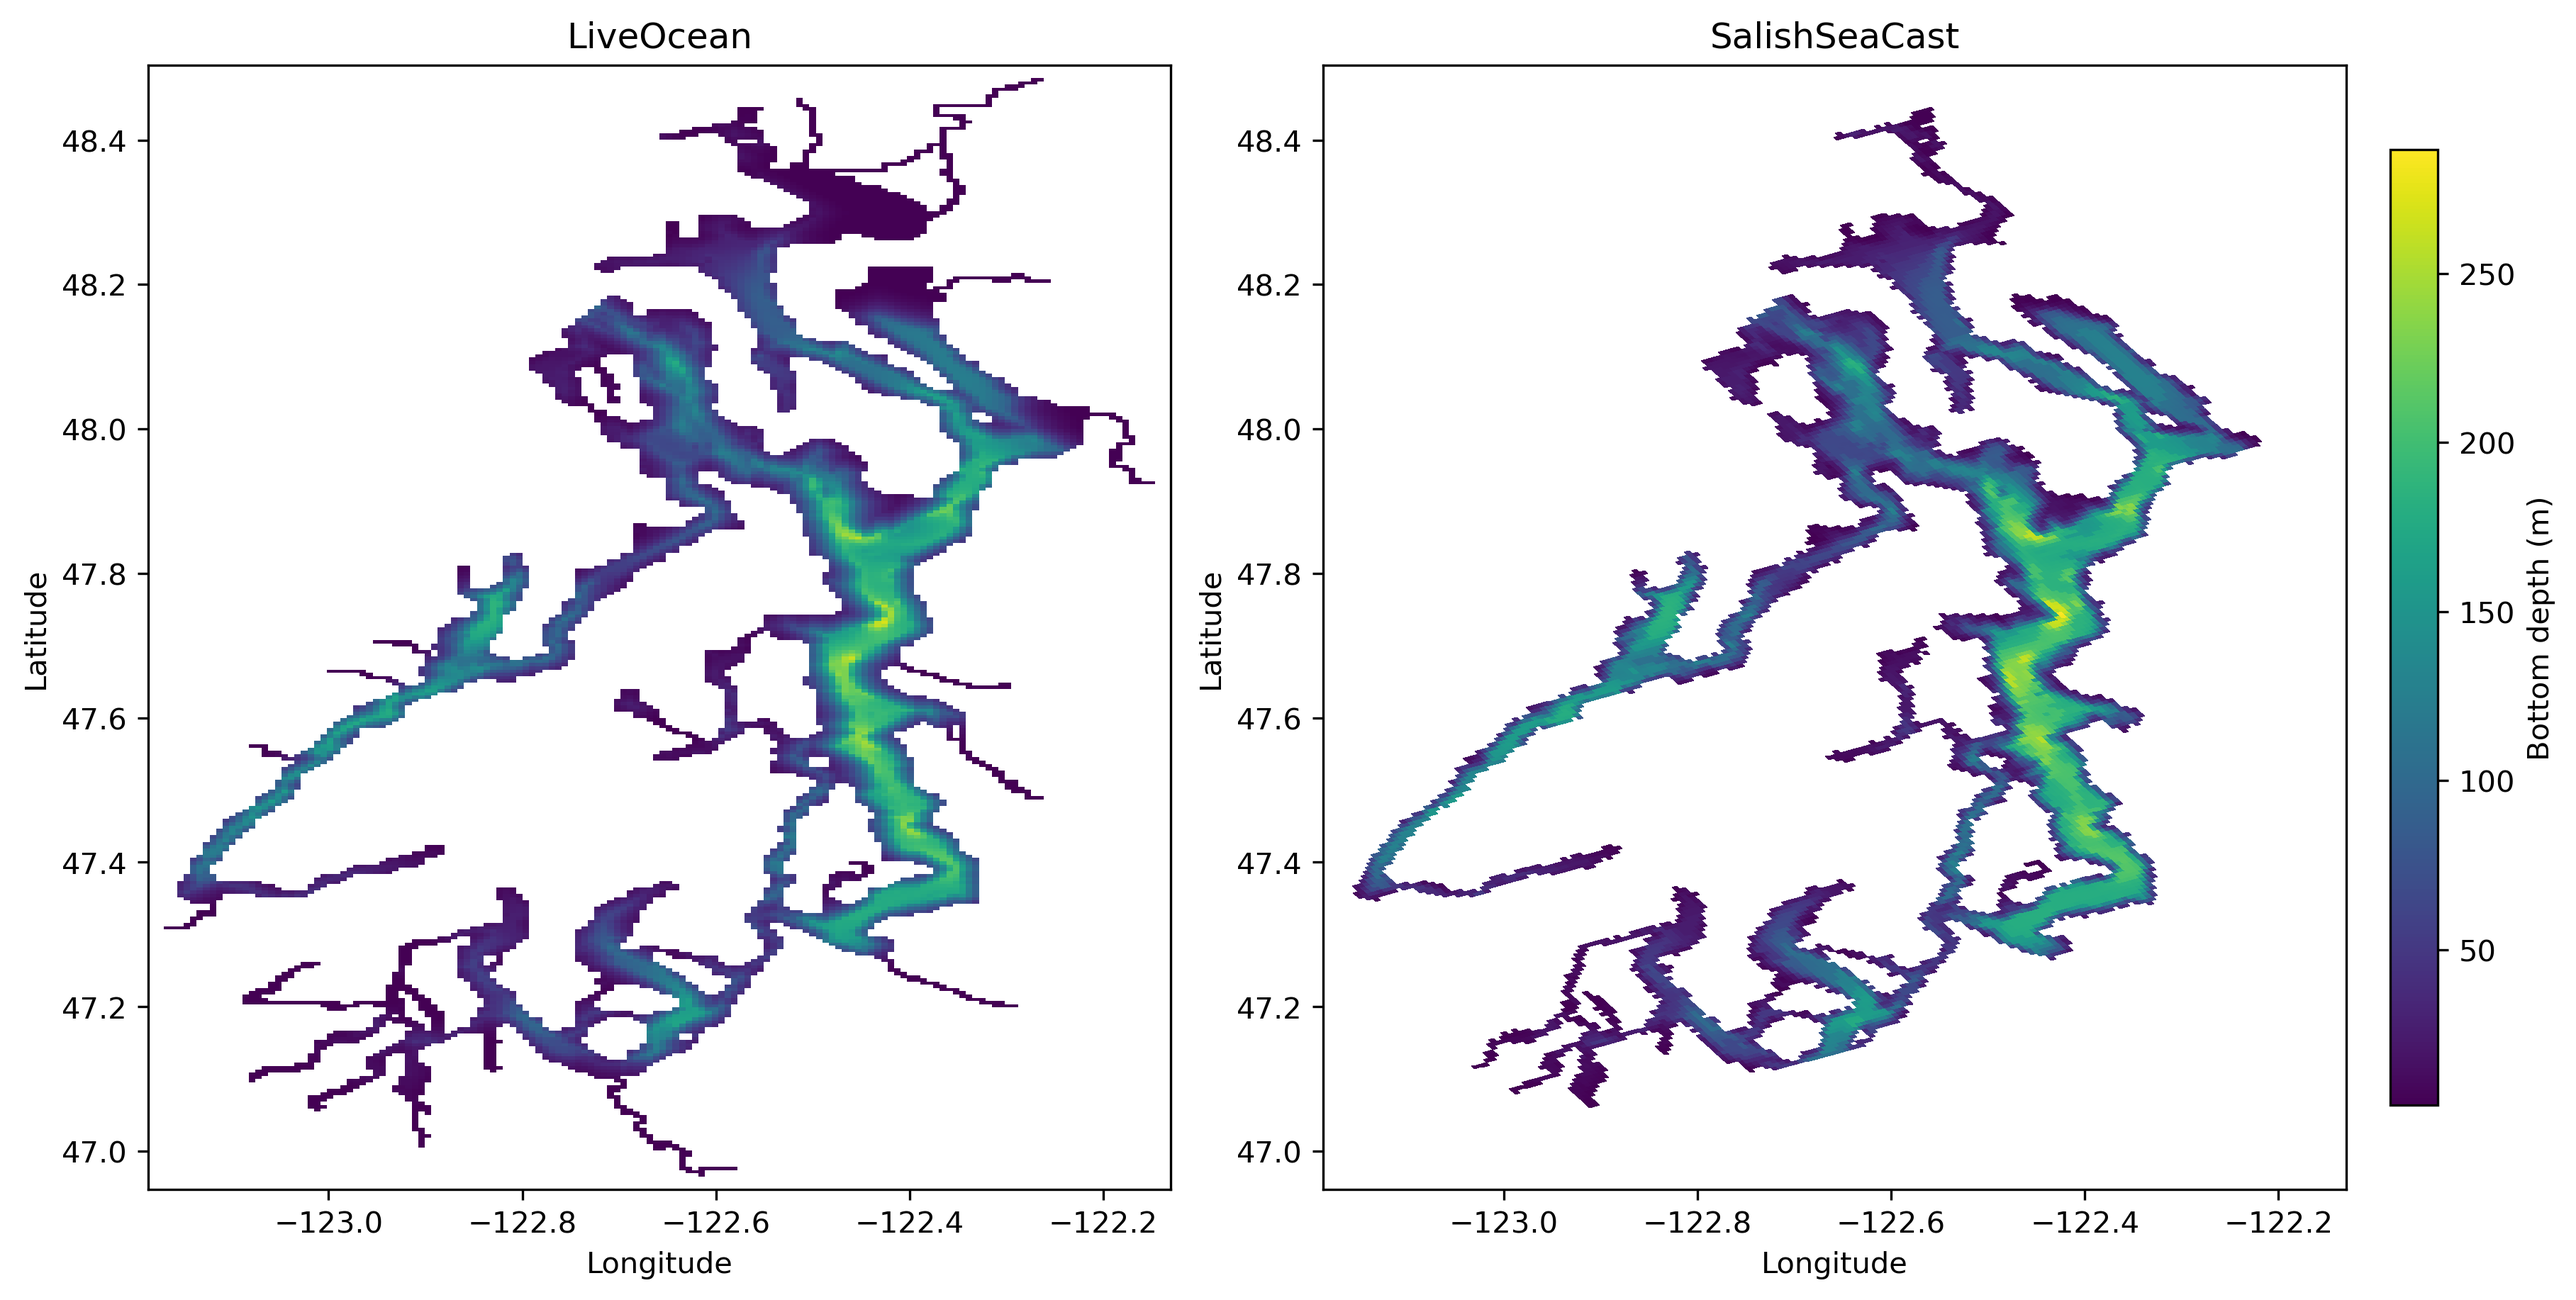
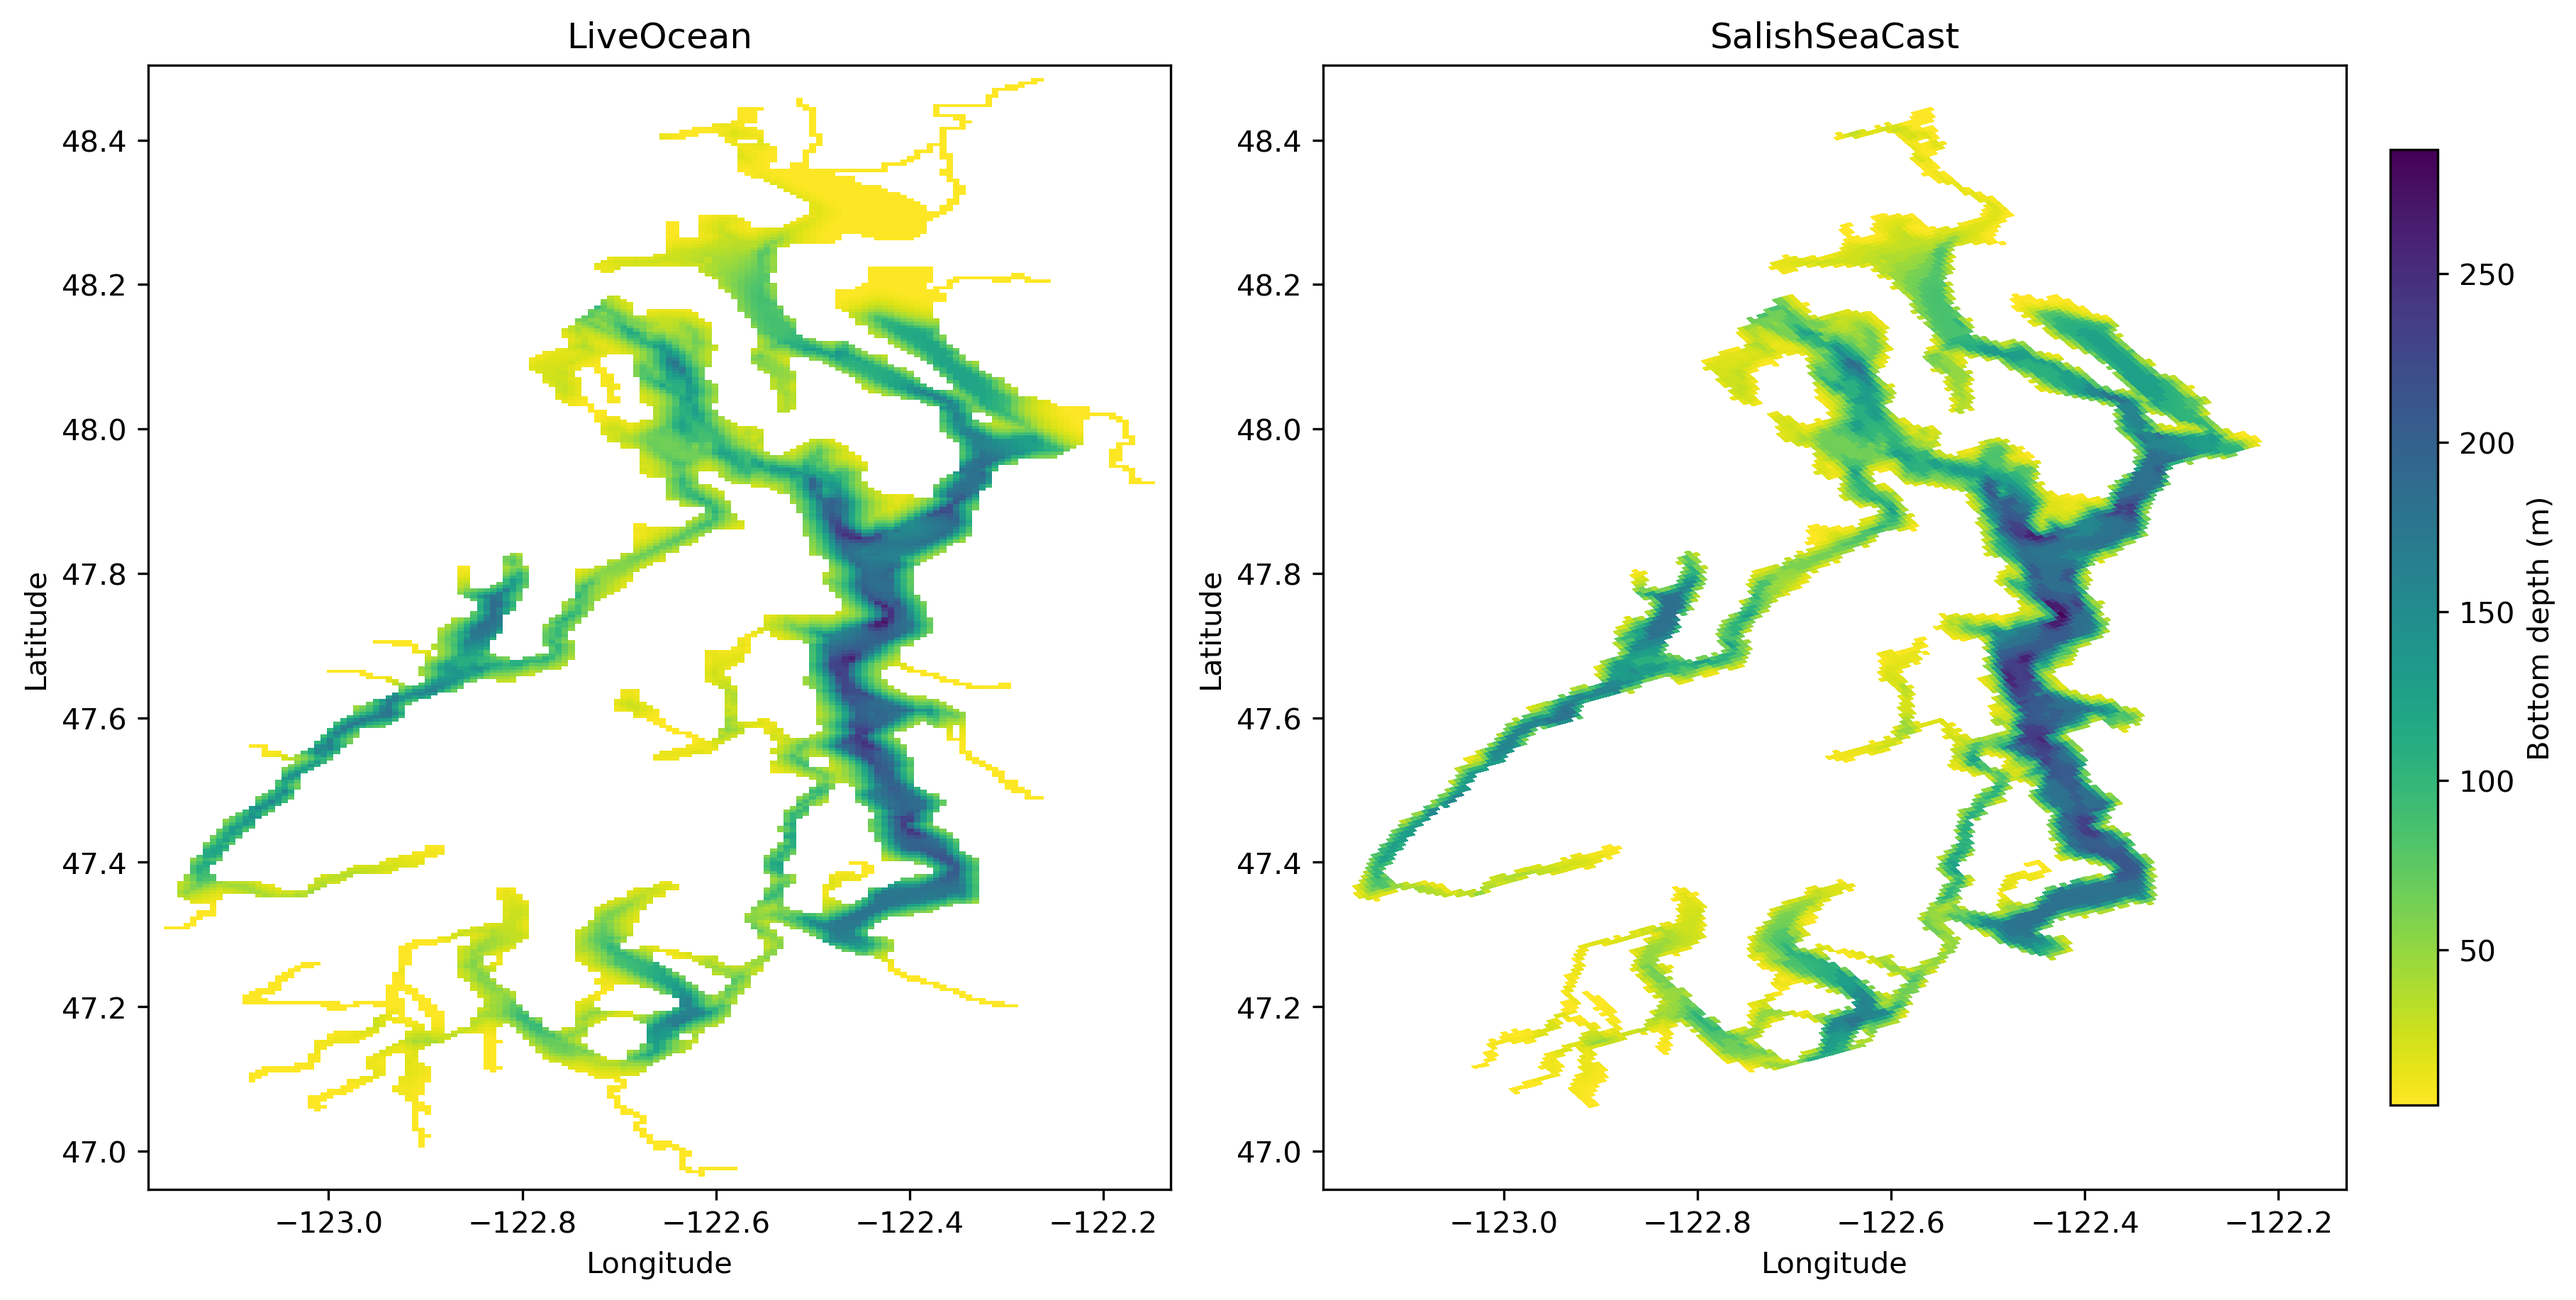
fix km3 conversion in hypoxic volume bottom_DO_plots.py

diff --git a/intermodel_comparison/bottom_DO/bottom_DO_plots.py b/intermodel_comparison/bottom_DO/bottom_DO_plots.py
@@ -181,13 +181,12 @@ hyp_area_LO_ts = np.sum(
 
 # hyp_thick = m
 # DA_ps = km2
-# m × km2 = 10^6 m3
 hyp_volume_LO_ts = np.nansum(
     hypoxic_LO *
     hyp_thick_LO *
     DA_ps[None, :, :],
-    axis=(1, 2)
-)
+    axis=(1, 2) 
+)/10e3
 
 # ============================================================
 # SALISHSEACAST
@@ -217,13 +216,12 @@ hyp_area_SSC_ts = np.sum(
 
 # hyp_thick = m
 # DA_SSC = km2
-# m × km2 = 10^6 m3
 hyp_volume_SSC_ts = np.nansum(
     hypoxic_SSC *
     hyp_thick_SSC *
     DA_SSC[None, :, :],
     axis=(1, 2)
-)
+)/ 10e3 # convert m hyp thick to km --> km3
        
 # ============================================================
 # PLOT HYPOXIC AREA AND VOLUME TS

diff --git a/intermodel_comparison/bottom_DO/bottom_bathymetry_plots.py b/intermodel_comparison/bottom_DO/bottom_bathymetry_plots.py
@@ -180,7 +180,7 @@ pcm1 = axes[0].pcolormesh(
     lat_LO,
     depth_LO_plot,
     shading='auto',
-    cmap='viridis_r',
+    cmap='viridis',
     vmin=depth_min,
     vmax=depth_max
 )
@@ -198,7 +198,7 @@ pcm2 = axes[1].pcolormesh(
     lat_SSC,
     depth_SSC_plot,
     shading='auto',
-    cmap='viridis_r',
+    cmap='viridis',
     vmin=depth_min,
     vmax=depth_max
 )
